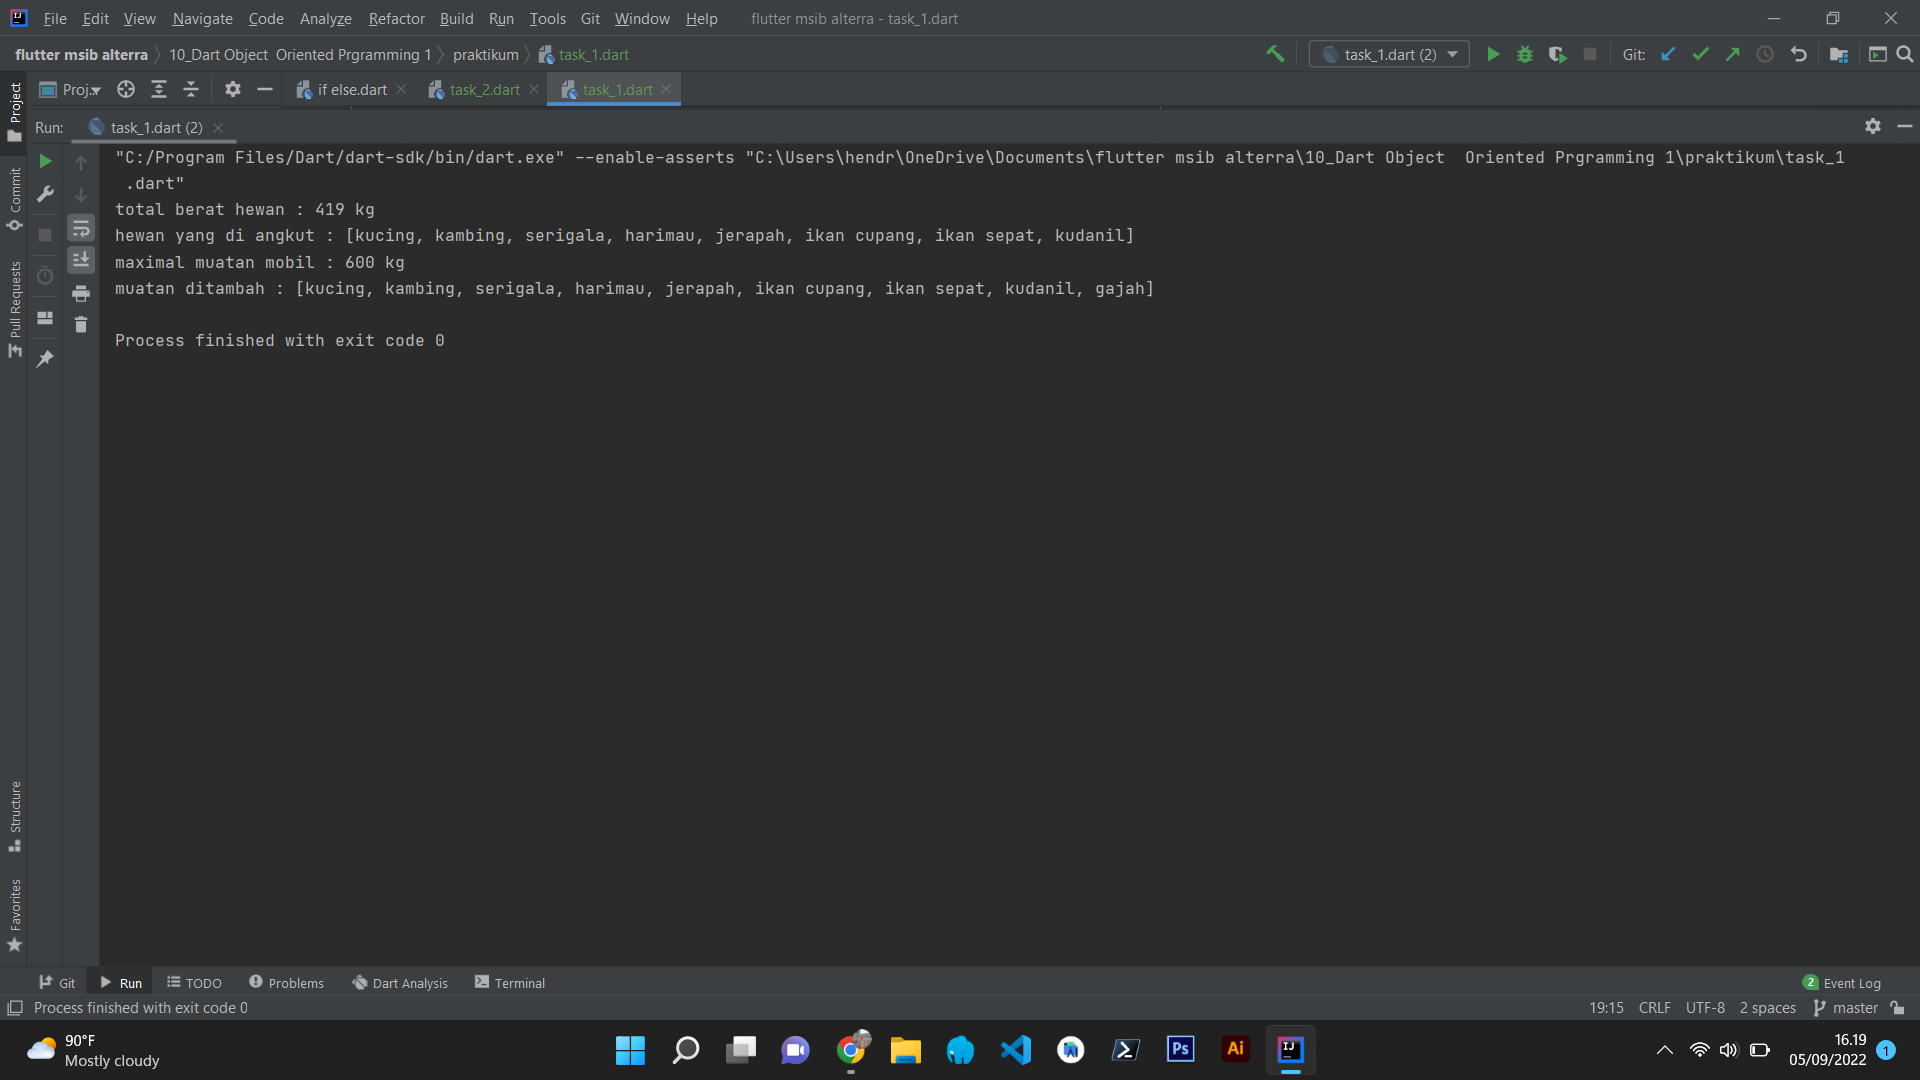
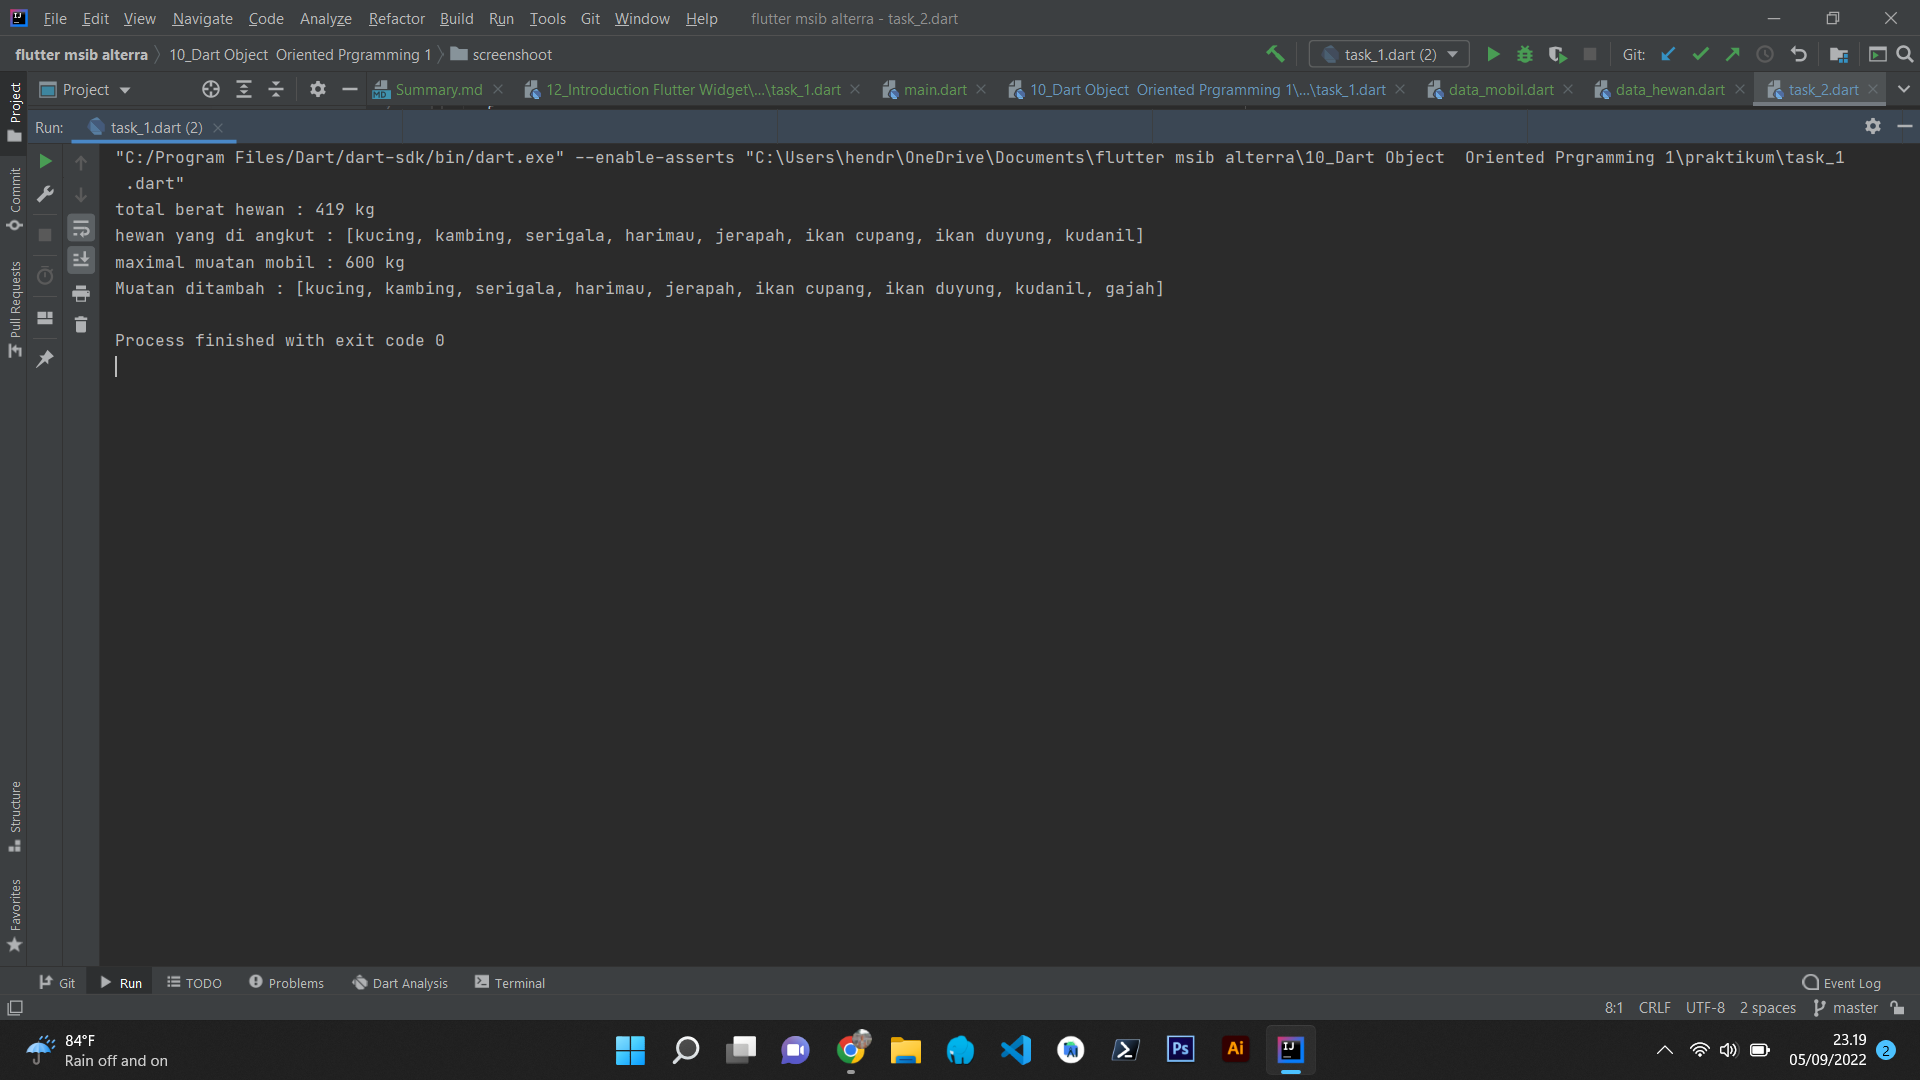
section 10

diff --git a/10_Dart Object  Oriented Prgramming 1/praktikum/task_2.dart b/10_Dart Object  Oriented Prgramming 1/praktikum/task_2.dart
@@ -1,51 +1,9 @@
-class Hewan {
-  int kucing = 5;
-  int kambing = 35;
-  int serigala = 40;
-  int harimau = 120;
-  int jerapah = 90;
-  int ikan_mas = 1;
-  int ikan_duyung = 18;
-  int kudanil = 110;
-  int? gajah;
-}
+import 'task_1.dart';
 
-class Mobil extends Hewan {
-  int kapasitasMax = 600;
-  List hewan = [
-    'kucing',
-    'kambing',
-    'serigala',
-    'harimau',
-    'jerapah',
-    'ikan mas',
-    'ikan duyung',
-    'kudanil'
-  ];
-
-  get totalBeratHewan =>
-      kucing +
-      kambing +
-      serigala +
-      harimau +
-      jerapah +
-      ikan_mas +
-      ikan_duyung +
-      kudanil;
-
-  void totalKeseluruhan() {
-    if (totalBeratHewan < kapasitasMax) {
-      hewan.add('gajah');
-      print('muatan ditambah : $hewan');
-    } else {
-      print('muatan sudah maximal');
-    }
-  }
-
+class Muatan extends Muat {
   void totalMuatan() {
     gajah = 160;
     var seluruhBeratHewan = totalBeratHewan + gajah!;
-
     if (seluruhBeratHewan < kapasitasMax) {
       print('total berat yang dimuat : ${seluruhBeratHewan} kg');
     }
@@ -53,10 +11,10 @@ class Mobil extends Hewan {
 }
 
 void main() {
-  var muatanHewan = Mobil();
+  var muatanHewan = Muatan();
   print('hewan yang di muat : ${muatanHewan.hewan}');
   print('berat hewan yang dimuat : ${muatanHewan.totalBeratHewan} kg');
   print('maximal muatan mobil : ${muatanHewan.kapasitasMax} kg');
-  muatanHewan.totalKeseluruhan();
+  muatanHewan.beratAngkut();
   muatanHewan.totalMuatan();
 }

diff --git a/10_Dart Object  Oriented Prgramming 1/praktikum/task_1.dart b/10_Dart Object  Oriented Prgramming 1/praktikum/task_1.dart
@@ -1,28 +1,6 @@
-class Hewan {
-  int kucing = 5;
-  int kambing = 35;
-  int serigala = 40;
-  int harimau = 120;
-  int jerapah = 90;
-  int ikan_mas = 1;
-  int ikan_duyung = 18;
-  int kudanil = 110;
-  int? gajah;
-}
+import 'data_mobil.dart';
 
-class Mobil extends Hewan {
-  int kapasitasMax = 600;
-  List hewan = [
-    'kucing',
-    'kambing',
-    'serigala',
-    'harimau',
-    'jerapah',
-    'ikan cupang',
-    'ikan sepat',
-    'kudanil'
-  ];
-
+class Muat extends Mobil {
   get totalBeratHewan =>
       kucing +
       kambing +
@@ -33,20 +11,20 @@ class Mobil extends Hewan {
       ikan_duyung +
       kudanil;
 
-  void totalKeseluruhan() {
+  void beratAngkut() {
     if (totalBeratHewan < kapasitasMax) {
       hewan.add('gajah');
-      print('muatan ditambah : $hewan');
+      print('Muatan ditambah : $hewan');
     } else {
-      print('muatan sudah penuh');
+      print('Muatan sudah maximal');
     }
   }
 }
 
 void main() {
-  var muatanHewan = Mobil();
+  var muatanHewan = Muat();
   print('total berat hewan : ${muatanHewan.totalBeratHewan} kg');
   print('hewan yang di angkut : ${muatanHewan.hewan}');
   print('maximal muatan mobil : ${muatanHewan.kapasitasMax} kg');
-  muatanHewan.totalKeseluruhan();
+  muatanHewan.beratAngkut();
 }

diff --git a/10_Dart Object  Oriented Prgramming 1/praktikum/data_mobil.dart b/10_Dart Object  Oriented Prgramming 1/praktikum/data_mobil.dart
@@ -1,0 +1,15 @@
+import 'data_hewan.dart';
+
+class Mobil extends Hewan {
+  int kapasitasMax = 600;
+  List hewan = [
+    'kucing',
+    'kambing',
+    'serigala',
+    'harimau',
+    'jerapah',
+    'ikan cupang',
+    'ikan duyung',
+    'kudanil'
+  ];
+}

diff --git a/10_Dart Object  Oriented Prgramming 1/praktikum/data_hewan.dart b/10_Dart Object  Oriented Prgramming 1/praktikum/data_hewan.dart
@@ -1,0 +1,11 @@
+class Hewan {
+  int kucing = 5;
+  int kambing = 35;
+  int serigala = 40;
+  int harimau = 120;
+  int jerapah = 90;
+  int ikan_mas = 1;
+  int ikan_duyung = 18;
+  int kudanil = 110;
+  int? gajah;
+}
